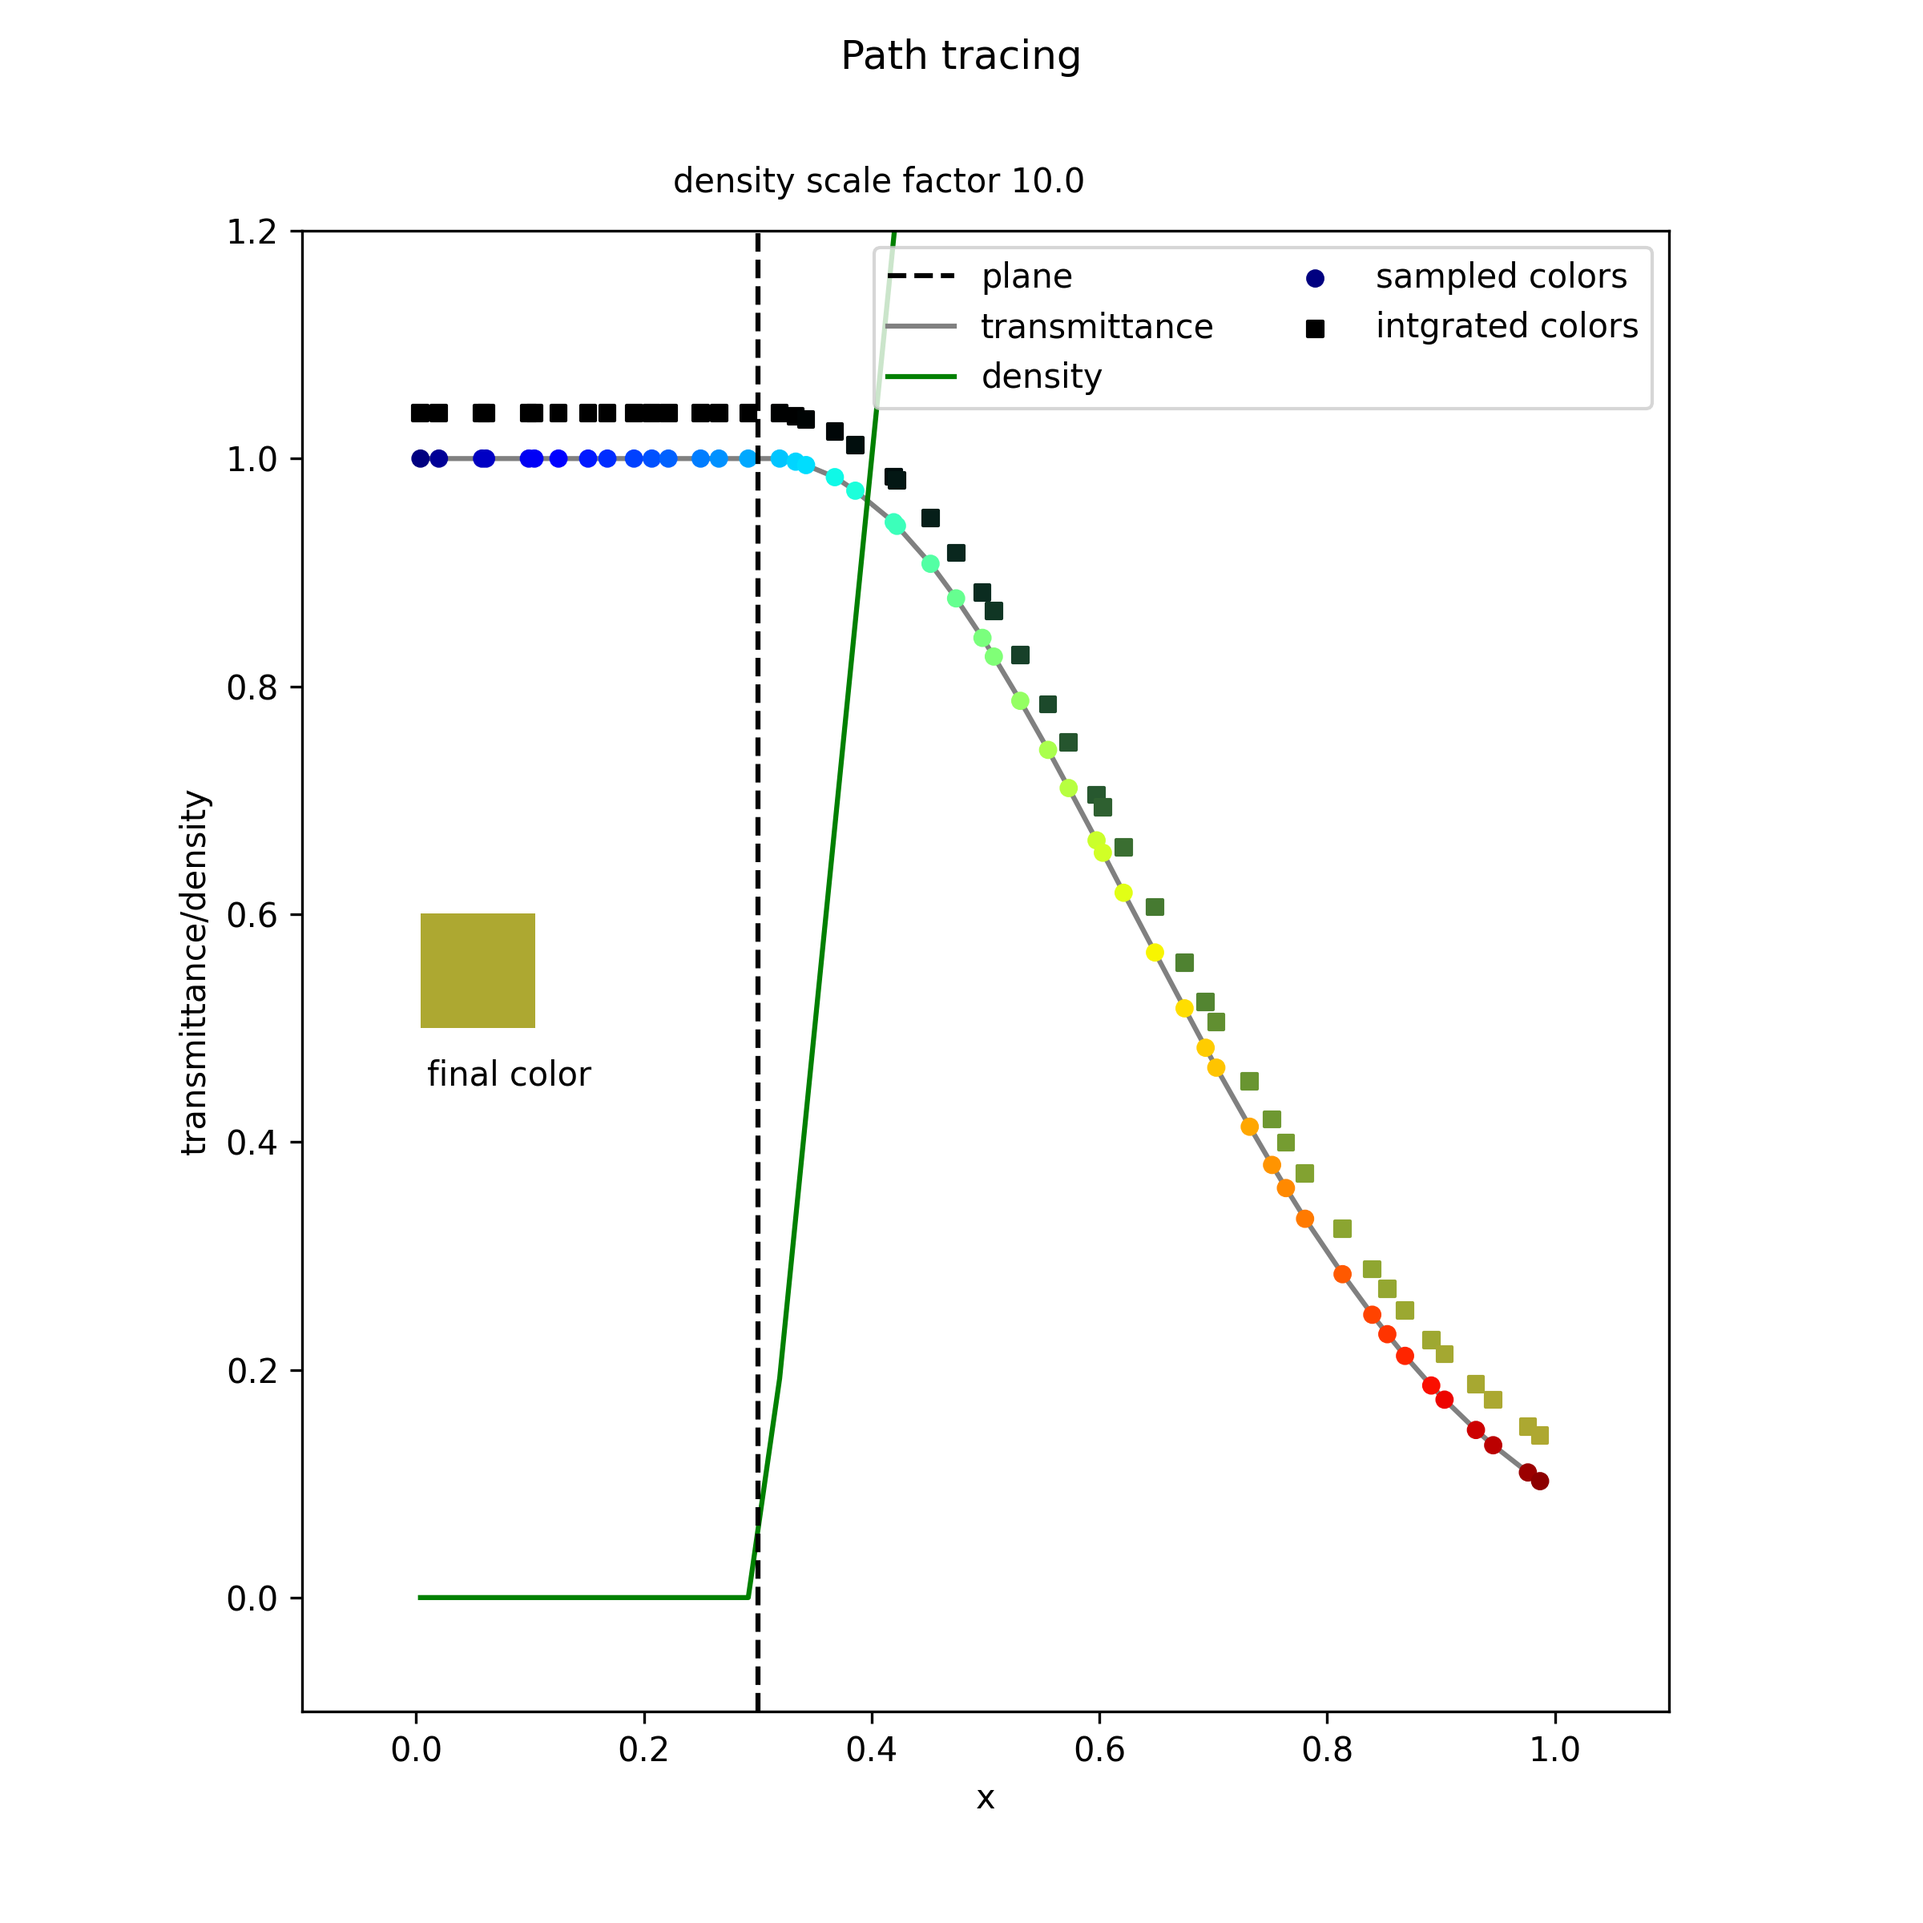
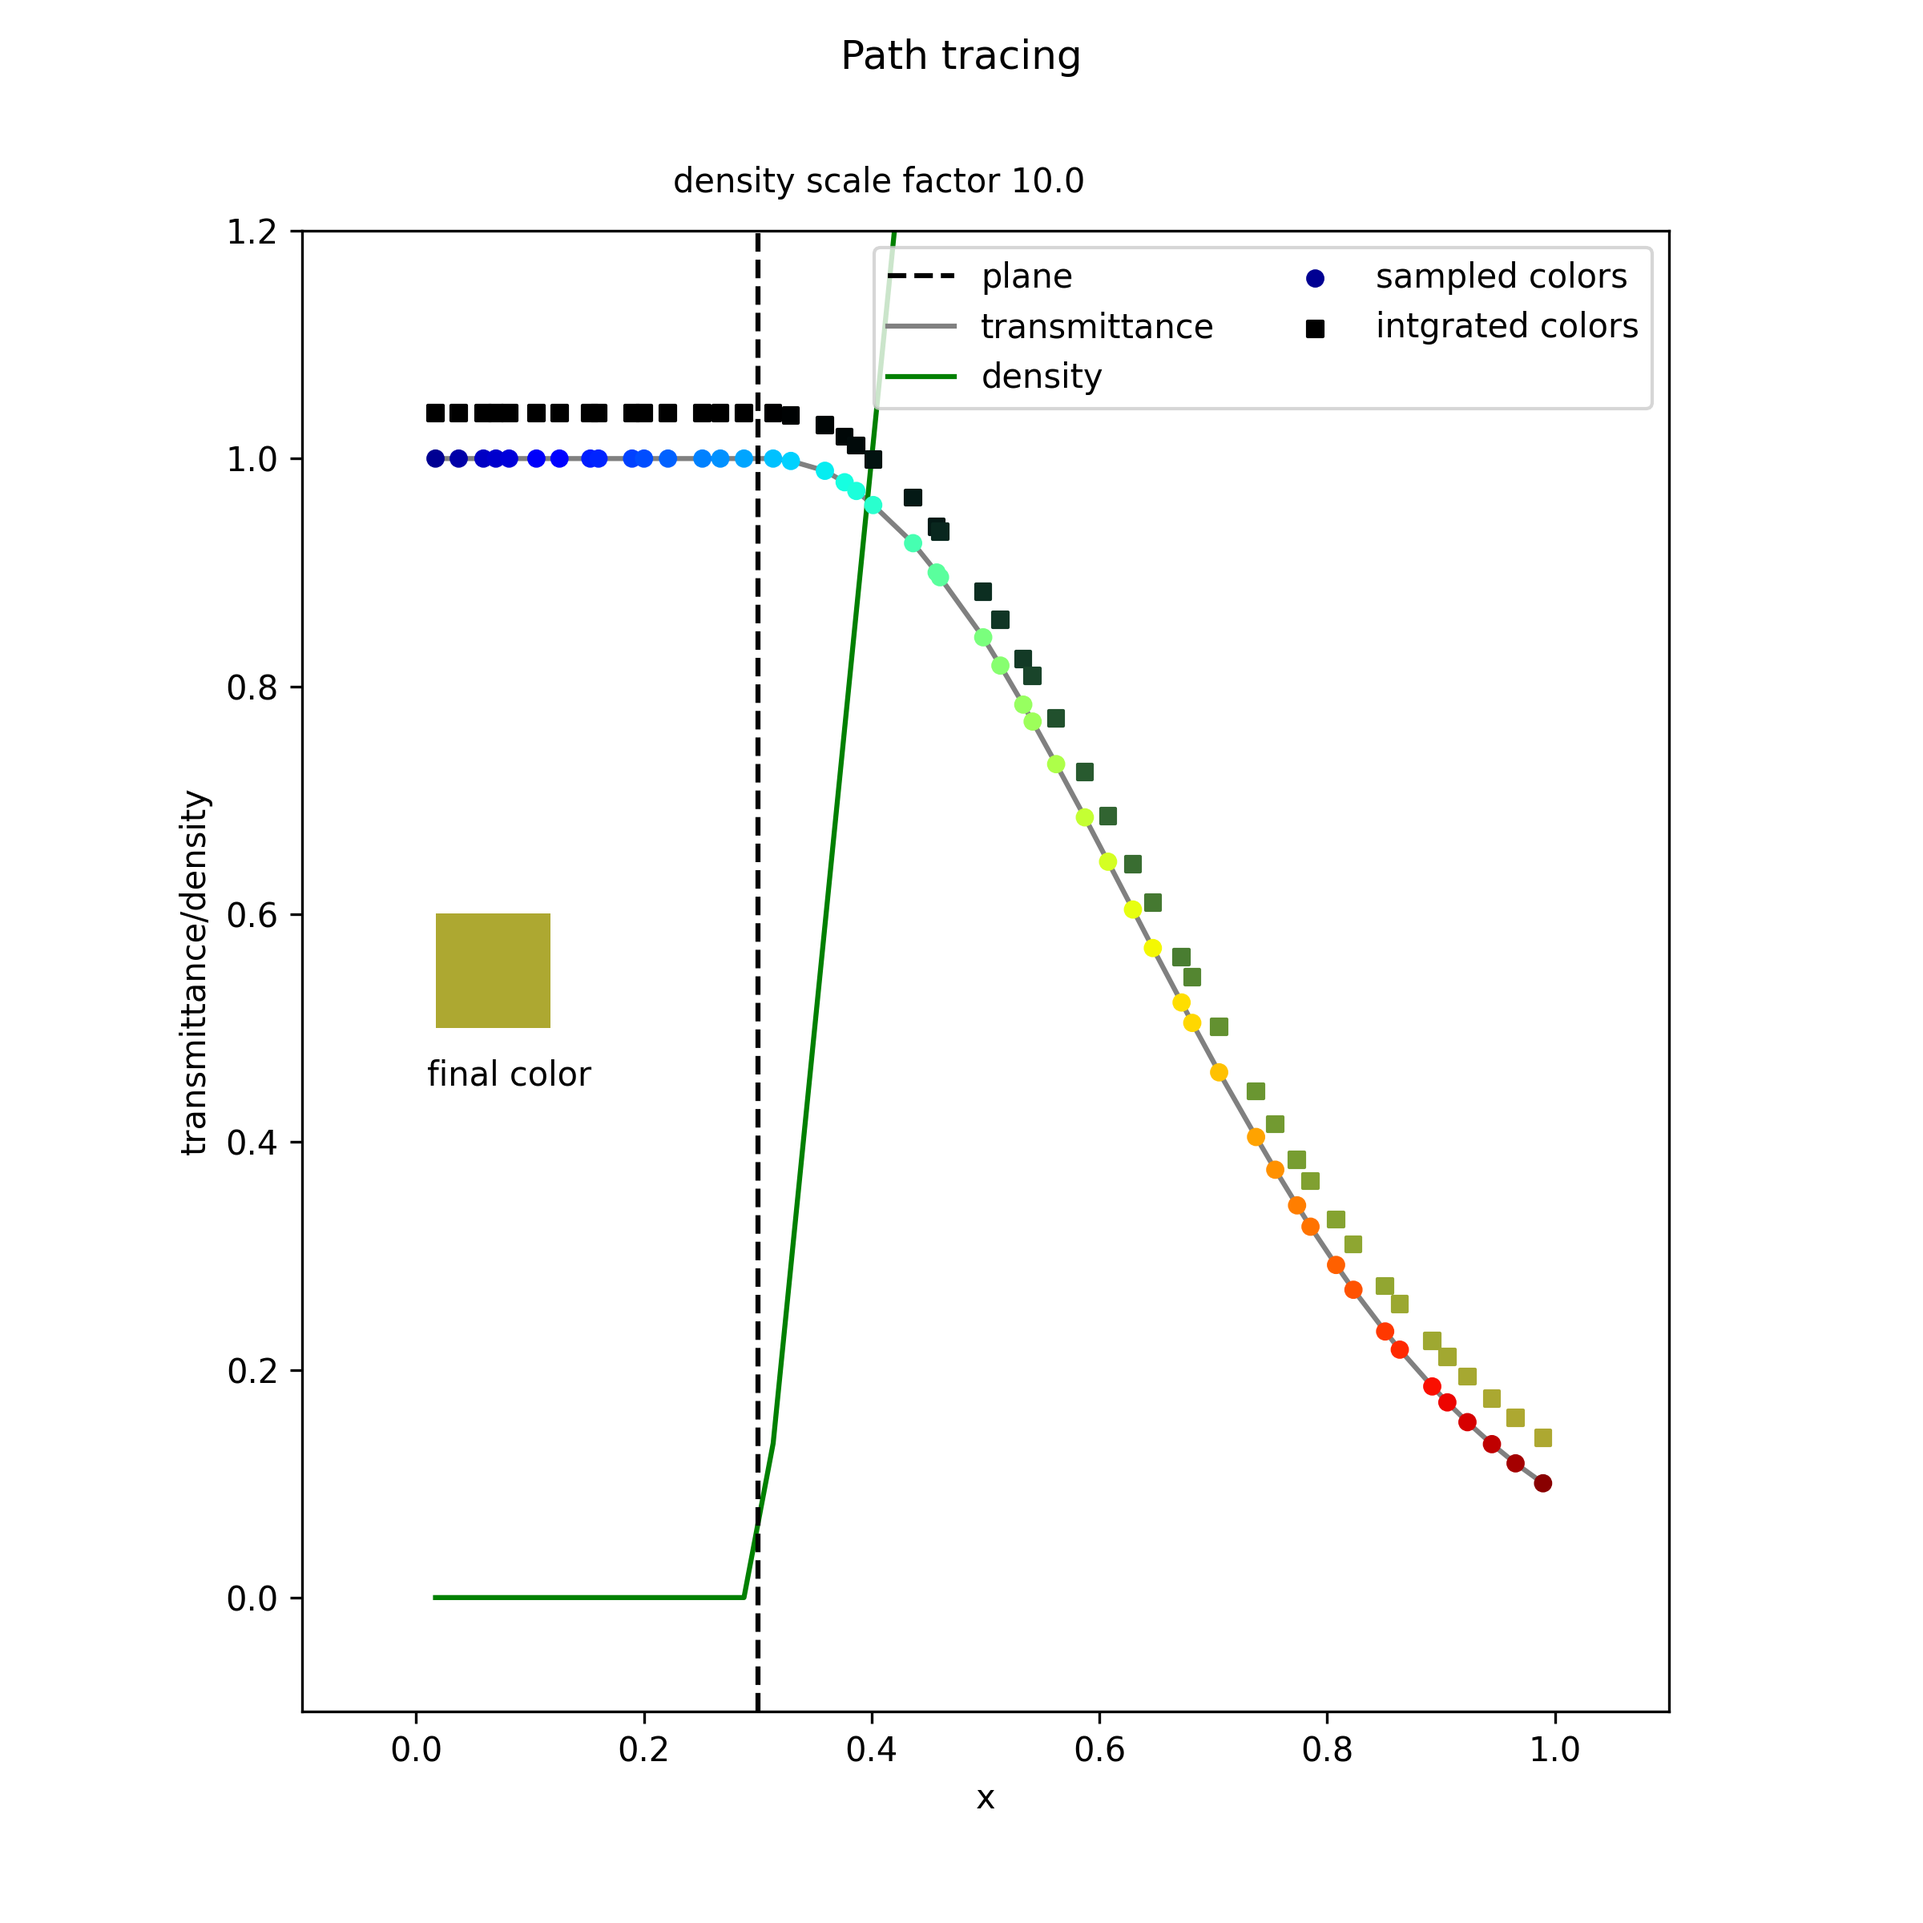
fixed issue in incremental path tracing

diff --git a/torchngp/radiance.py b/torchngp/radiance.py
@@ -2,6 +2,7 @@ from typing import Callable, Union
 
 import torch
 import torch.nn
+import torch.nn.functional as F
 
 from . import geometric
 from . import encoding
@@ -18,7 +19,7 @@ def integrate_path(
     color: torch.Tensor,
     sigma: torch.Tensor,
     ts: torch.Tensor,
-    initial_transmittance: Union[torch.Tensor, float] = 1.0,
+    prev_log_transmittance: Union[torch.Tensor, float] = 0.0,
 ) -> tuple[torch.Tensor, torch.Tensor, torch.Tensor]:
     """Integrates the color integral for multiple rays.
 
@@ -32,41 +33,46 @@ def integrate_path(
         sigma: (T,N,...,1) volume density for each ray (N,...) and step (T,).
         ts: (T+1,N,...,1) parametric ray time step values. We need one more than
             actual samples to be computed. Usually this is set to ray tfar.
-        initial_transmittance: (N,...,1) optional initial transmittance values.
-            Defaults to 1.0 if not specified.
+        prev_log_transmittance: (1,N,...,1) or broadcastable initial log
+            transmittance values per ray. Useful when combining colors from
+            several path parts.
 
     Returns:
         color: (T,N,...,C) accumulated colors per sample step
-        transmittance: (T,N,...,1) accumulated transmittance per sample step
-        alpha: (T,N,...,1) alpha transparency values per sample step
+        log_transmittance: (T+1,N,...,1) accumulated log-transmittance
+            per sample step. At index t we have the log-transmittance
+            accumulated up to the t-th time step position.
 
     References:
         [1] NeRF: Representing Scenes as
         Neural Radiance Fields for View Synthesis
         https://arxiv.org/pdf/2003.08934.pdf
     """
+    eps = torch.finfo(ts.dtype).eps
 
     # delta[i] is defined as the segment lengths between ts[i+1] and ts[i]
     delta = ts[1:] - ts[:-1]  # (T+1,N,...,1) -> (T,N,...,1)
 
-    # Alpha values (T,N,...,1)
     # Eps is necessary because in testing sigma is often inf and if delta
     # is zero then 0.0*float('inf')=nan
-    eps = torch.finfo(delta.dtype).eps
-    sigma_mul_delta = sigma * (delta + eps)
-    sample_alpha = 1.0 - (-sigma_mul_delta).exp()
+    sigma_delta = sigma * (delta + eps)
 
-    # Accumulated transmittance - this is an exclusive cumsum
-    # (T,N,...,1)
-    # TODO: fix the following for part integrations. We need to take
-    # log_transmittance values and add and add it to cumsum term.
-    log_sample_transm = -sigma_mul_delta.cumsum(0).roll(1, 0)
-    sample_transm = (log_sample_transm).exp()
-    sample_transm[0] = initial_transmittance
+    # We construct a full-cumsum which has the following form
+    # full_cumsum([1,2,3]) = [0,1,3,6]
+    sigma_delta = F.pad(
+        sigma_delta,
+        (0,) * 2 * (sigma.dim() - 1) + (1, 0),
+        mode="constant",
+        value=0.0,
+    )
+    log_transm = -sigma_delta.cumsum(0) + prev_log_transmittance  # (T+1,N,...,1)
 
-    sample_colors = (sample_transm * sample_alpha * color).cumsum(0)
+    transm = log_transm.exp()
+    weights = transm[:-1] - transm[1:]  # (T,N,...,1)
 
-    return sample_colors, sample_transm, sample_alpha
+    integrated_colors = (weights * color).cumsum(0)
+
+    return integrated_colors, log_transm
 
 
 def rasterize_field(

diff --git a/torchngp/tests/test_radiance.py b/torchngp/tests/test_radiance.py
@@ -1,3 +1,4 @@
+from distutils.log import log
 import torch
 from torch.testing import assert_close
 import matplotlib as mpl
@@ -59,7 +60,7 @@ def test_radiance_integrate_path():
 
     ts_padded = torch.cat((ts, torch.tensor(1.0).view(1, 1, 1)), 0)
     color, density = rf(xyz)
-    out_colors, transmittance, alpha = radiance.integrate_path(
+    out_colors, log_transmittance, alpha = radiance.integrate_path(
         color, density, ts_padded
     )
     assert_close(out_colors[-1], torch.tensor([[0.2, 0.2, 0.2]]))
@@ -72,11 +73,52 @@ def test_radiance_integrate_path():
         cmap="gray",
     )
     color, density = rf(xyz)
-    out_colors, transmittance, alpha = radiance.integrate_path(
+    out_colors, log_transmittance, alpha = radiance.integrate_path(
         color, density, ts_padded, 0
     )
 
     assert ((out_colors[-1] > 0.5) & (out_colors[-1] < 0.6)).all()
+
+
+def test_radiance_integrate_path_in_parts():
+
+    ts = torch.rand(30, 20, 1)
+    ts_padded = torch.cat((ts, torch.tensor(1.0).view(1, 1, 1).expand(1, 20, 1)), 0)
+    color = torch.randn(30, 20, 3)
+    density = torch.rand(30, 20, 1) * 1e-1
+
+    full_colors, full_log_transmittance = radiance.integrate_path(
+        color, density, ts_padded
+    )
+
+    # Compare with part based intrg
+    color_parts = []
+    log_transm_parts = []
+
+    prev_log_transm = 0.0
+    prev_color = 0.0
+    for i in [0, 10, 20]:
+        colors, log_transm = radiance.integrate_path(
+            color[i : i + 10],
+            density[i : i + 10],
+            ts_padded[i : i + 11],
+            prev_log_transmittance=prev_log_transm,
+        )
+        colors = colors + prev_color
+        color_parts.append(colors)
+        if i == 20:
+            log_transm_parts.append(log_transm)
+        else:
+            log_transm_parts.append(log_transm[:-1])
+        prev_color = colors[-1:].clone()
+        prev_log_transm = log_transm[-1:].clone()
+
+    part_colors = torch.cat(color_parts, 0)
+
+    part_log_transmittance = torch.cat(log_transm_parts, 0)
+
+    assert_close(full_log_transmittance, part_log_transmittance)
+    assert_close(full_colors, part_colors)
 
 
 def test_radiance_rasterize_field():

diff --git a/scripts/visualize_path_tracing.py b/scripts/visualize_path_tracing.py
@@ -26,9 +26,10 @@ def plot_density_scale(ds, show=True):
     density[mask] = 0.0
     density[~mask] *= ds
 
-    out_color, out_transm, out_alpha = radiance.integrate_path(
+    out_color, out_log_transm = radiance.integrate_path(
         color[..., :3], density, torch.cat((ts, tfar.unsqueeze(0)), 0)
     )
+    out_transm = out_log_transm.exp()
     fig, ax = plt.subplots(figsize=(8, 8))
     fig.text(0.35, 0.9, f"density scale factor {ds:.1f}")
     ax.vlines(
@@ -36,7 +37,7 @@ def plot_density_scale(ds, show=True):
     )
 
     shifted_ts = ts[:, 0] - tnear[0, 0]
-    ax.plot(shifted_ts, out_transm[:, 0], c="gray", label="transmittance")
+    ax.plot(shifted_ts, out_transm[:-1, 0], c="gray", label="transmittance")
     ax.plot(
         shifted_ts,
         density[:, 0],
@@ -51,7 +52,7 @@ def plot_density_scale(ds, show=True):
     plt.text(0.01, 0.45, "final color")
     ax.scatter(
         shifted_ts,
-        out_transm[:, 0],
+        out_transm[:-1, 0],
         c=color[:, 0],
         s=20,
         zorder=2,
@@ -59,7 +60,7 @@ def plot_density_scale(ds, show=True):
     )
     ax.scatter(
         shifted_ts,
-        out_transm[:, 0] + 0.04,
+        out_transm[:-1, 0] + 0.04,
         c=out_color[:, 0],
         s=20,
         marker="s",
